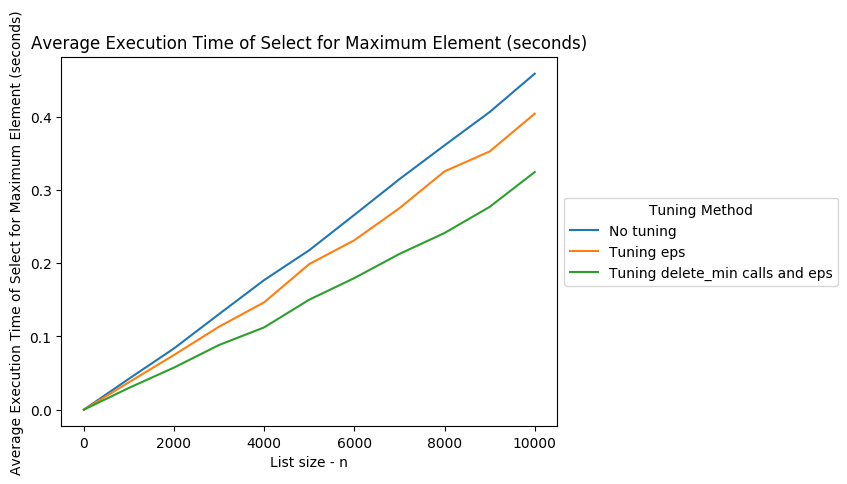
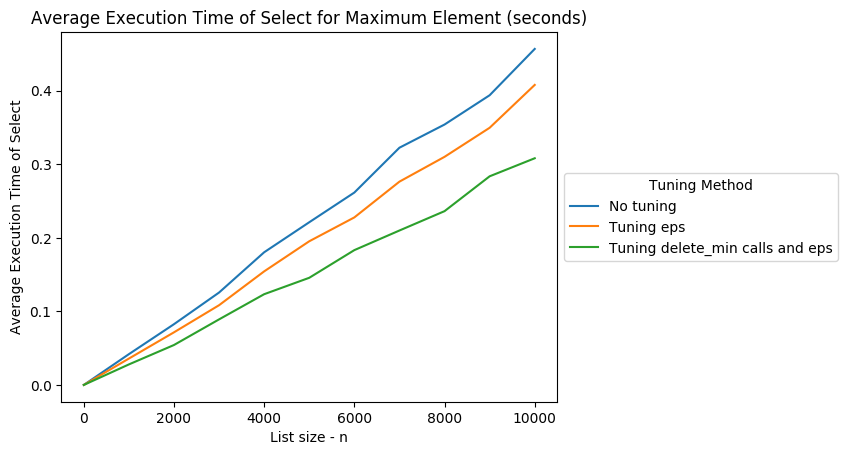
Graphs of optimized linear selection for different workflows

diff --git a/linear_select.py b/linear_select.py
@@ -156,7 +156,7 @@ def make_plot2(data, title, filename):
 	for i in range(1, 4):
 		ax.plot(data['x'], data['y' + str(i)])
 	ax.set_xlabel('List size - n')
-	ax.set_ylabel(title)
+	ax.set_ylabel('Average Execution Time of Select')
 	ax.set_title(title)
 	lgd = plt.legend(['No tuning', 'Tuning eps', 'Tuning delete_min calls and eps'], title='Tuning Method', loc='center left', bbox_to_anchor=(1, 0.5))
 	plt.savefig(filename, bbox_extra_artists=(lgd,), bbox_inches='tight', format='png')
